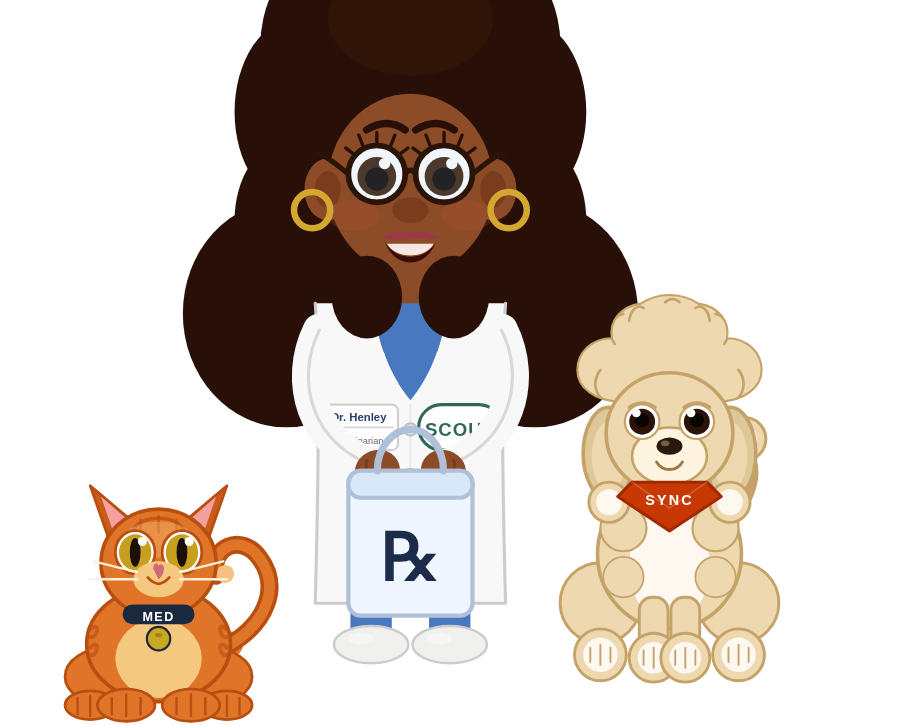
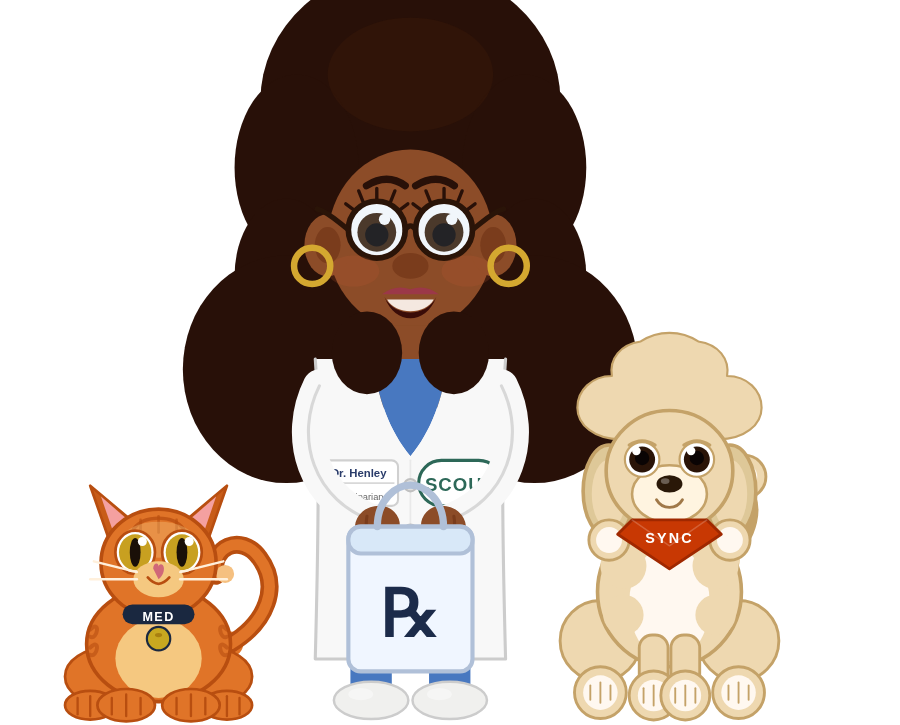
Fix mascot-trio baseline alignment and remove poodle curl lines
- Align all three mascots to same standing baseline in demo render source
  (cat was lowest, doctor highest — added matching y-offsets for Dr. Henley
  and Sync to match the hero SVG's existing alignment)
- Remove poodle topknot curl lines from mascot-trio.png
- Update Why It Matters section: image fills full card width edge-to-edge,
  flush bottom (no side/bottom padding)

Claude-Session: https://claude.ai/code/session_01Bm2o7jnq5rnKSEr42urvbC

Changed region(s): [[0.1867, 0.0, 0.8711, 1.0]]

diff --git a/scout.html b/scout.html
@@ -285,8 +285,9 @@ nav {
 }
 .why-visual-bottom {
   background: var(--green);
-  padding: 16px 16px 20px;
+  padding: 16px 0 0;
   display: flex; flex-direction: column; align-items: center; gap: 10px;
+  overflow: hidden;
 }
 .why-v-label {
   font-size: 10px; font-weight: 700; letter-spacing: 0.1em; text-transform: uppercase;
@@ -944,7 +945,7 @@ a:focus-visible { outline: 2px solid var(--orange); outline-offset: 3px; border-
         <div class="why-visual-bottom">
           <!-- Mascot trio — single composite image preserves correct proportions and spacing -->
           <img src="mascot-trio.png" alt="Med, Dr. Henley, and Sync"
-               style="width:100%;max-width:420px;height:auto;display:block;margin:0 auto;
+               style="width:100%;height:auto;display:block;
                       filter:drop-shadow(0 4px 14px rgba(0,0,0,0.35));">
           <div style="font-size:11px;color:rgba(255,255,255,0.55);line-height:1.5;text-align:center;">
             Log in for live numbers by location.
